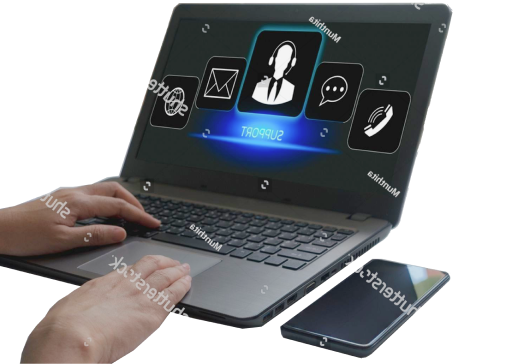
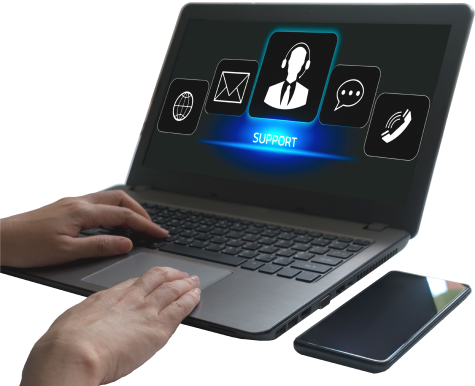
CSS:Fixed Services position

diff --git a/src/components/Services/Card/Card.jsx b/src/components/Services/Card/Card.jsx
@@ -2,7 +2,7 @@ import { Trans } from "react-i18next"
 import css from './Card.module.css'
 
 
-export const Card = ({ picture, position, langKey }) => (
+export const Card = ({ picture, position, langKey, bottom }) => (
     <div className={css.Card}>
 
         <h2 className={css.title}><Trans i18nKey={langKey + ".title"}></Trans></h2>
@@ -15,7 +15,8 @@ export const Card = ({ picture, position, langKey }) => (
                 </>
                 :
                 <>
-                    <img src={picture}></img>
+
+                    <img src={picture} className={bottom && css.imgBottom}></img>
                     <div className={css.description}><Trans i18nKey={langKey + ".description"}></Trans></div>
                 </>}
         </div>

diff --git a/src/components/TimeLine/TimeLine.jsx b/src/components/TimeLine/TimeLine.jsx
@@ -21,22 +21,20 @@ export const TimeLine = () => {
     }, [])
 
     return (
-        <>
+        <section className={css.timeLine}>
 
             <h2 className={css.title}>
-                <Trans i18nKey='timeLine.title'>xxx</Trans>
+                <Trans i18nKey='timeLine.title'></Trans>
             </h2>
 
             {console.log(events)}
             {events.map((event) => (
                 <>
-
                     <TimeLineElement langKey={event} key={event.id}></TimeLineElement>
-
                 </>
             ))}
 
-        </>
+        </section>
 
     )
 }

diff --git a/src/components/TimeLine/TimelLineElement/TimeLineElement.module.css b/src/components/TimeLine/TimelLineElement/TimeLineElement.module.css
@@ -1,0 +1,30 @@
+.element {
+    width: fit-content;
+    padding: 20px;
+    margin-bottom: 14px;
+    border-radius: 20px;
+    box-shadow: 0px 20px 20px 0px #00000014;
+    font-size: 20px;
+    font-weight: 700;
+    line-height: 24px;
+    letter-spacing: 0em;
+
+}
+
+.month {
+    margin-bottom: 12px;
+    font-size: 20px;
+}
+
+.description {
+    font-weight: 400;
+    line-height: 30px;
+}
+
+.leftSide {
+    transform: translateX(-100%)
+}
+
+.rightSide {
+    transform: translateX(100%)
+}

diff --git a/src/components/Services/Services.jsx b/src/components/Services/Services.jsx
@@ -23,7 +23,7 @@ export const Services = () => (
         <section className={css.cardsSection}>
             <Card picture={electricImg} langKey="services.electrical" />
             <Card picture={controlImg} position="right" langKey="services.control" />
-            <Card picture={laptopImg} langKey="services.support" />
+            <Card picture={laptopImg} langKey="services.support" bottom />
         </section>
     </>
 )

diff --git a/src/components/Services/Card/Card.module.css b/src/components/Services/Card/Card.module.css
@@ -1,7 +1,9 @@
 .wrapper {
+    position: relative;
     display: flex;
     align-items: center;
-    padding: 20px 0px;
+    justify-content: flex-end;
+    height: 500px;
     border-radius: 20px;
     box-shadow: 0px 20px 20px 0px #00000014;
     margin-bottom: 40px;
@@ -26,4 +28,10 @@
     letter-spacing: 0em;
     text-align: left;
 
+}
+
+.imgBottom {
+    position: absolute;
+    bottom: 0;
+    left: 0;
 }

diff --git a/src/components/TimeLine/TimeLine.module.css b/src/components/TimeLine/TimeLine.module.css
@@ -1,0 +1,7 @@
+.timeLine {
+    display: flex;
+    flex-direction: column;
+    align-items: center;
+    max-width: 1080px;
+    padding: 100px 0;
+}
